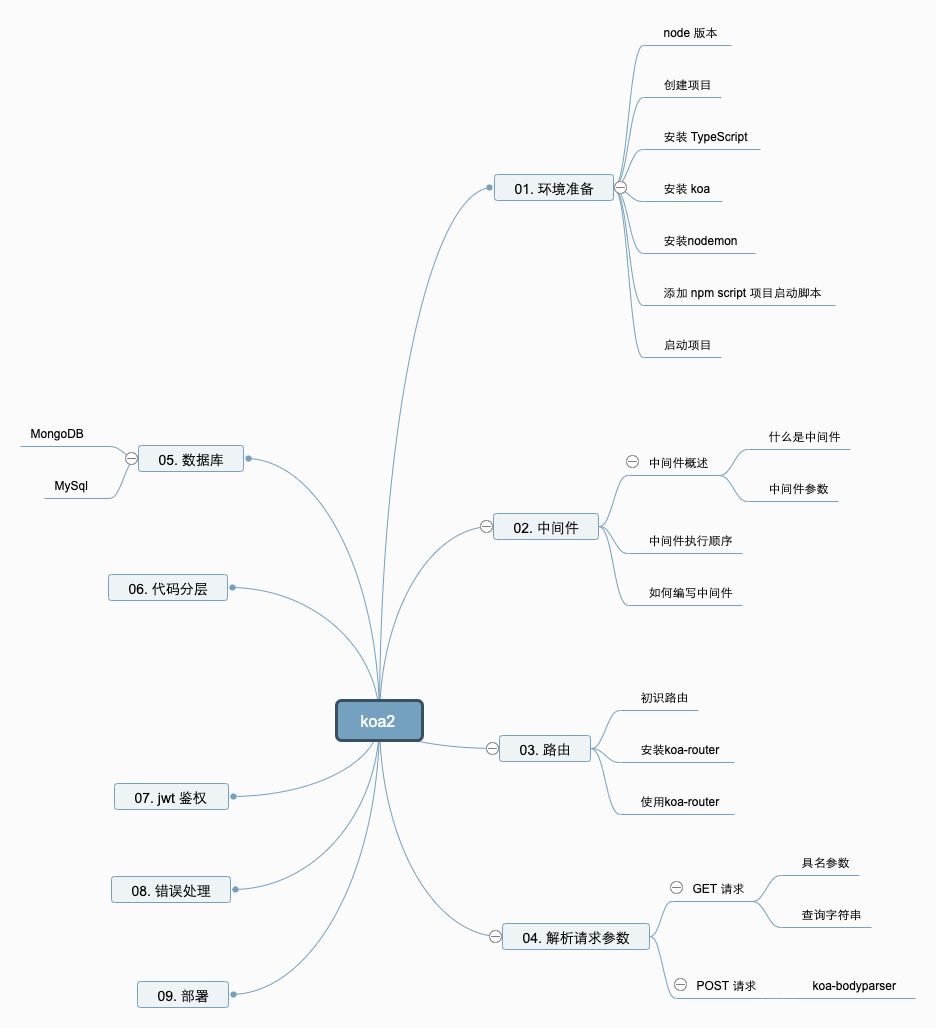
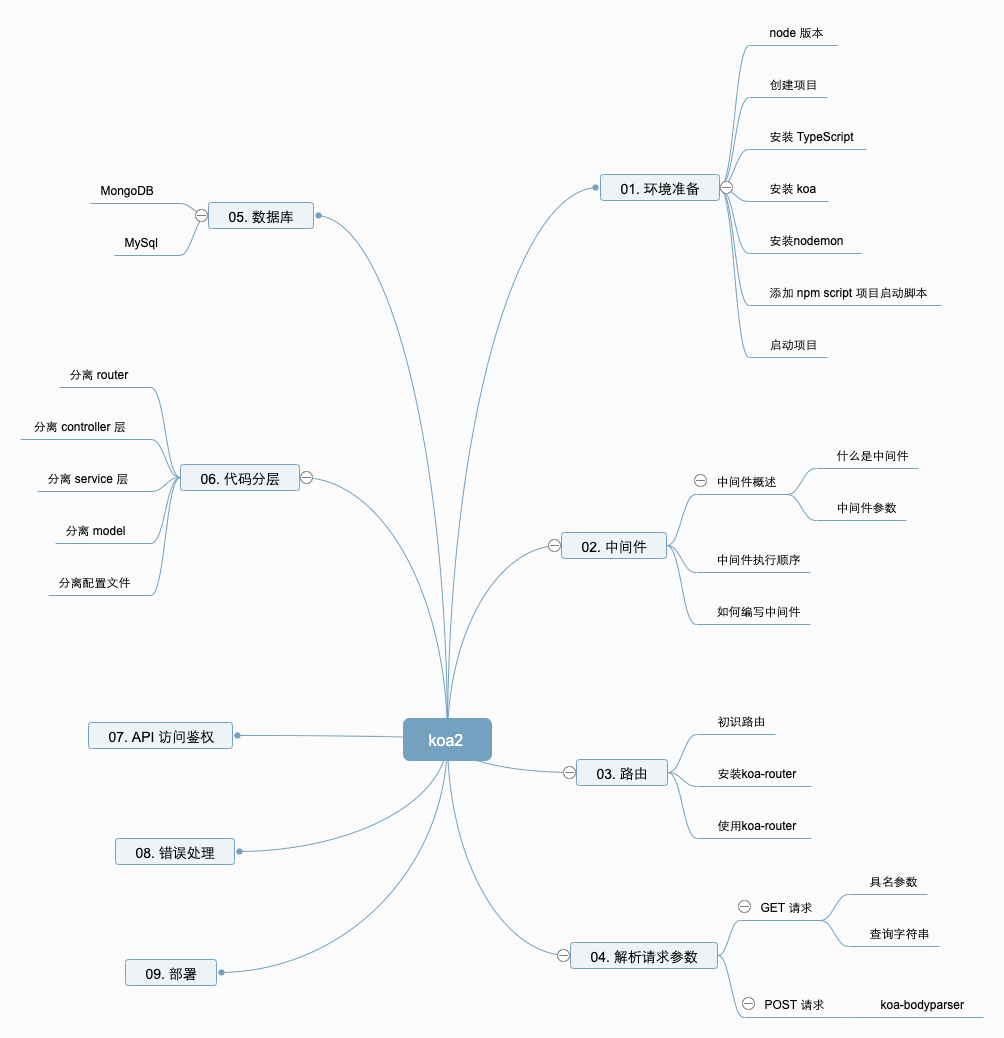
feat(koa2): 接口鉴权

diff --git a/docs/.vuepress/config.js b/docs/.vuepress/config.js
@@ -131,6 +131,7 @@ module.exports = {
           ["koa2/04.解析请求参数.md", "04.解析请求参数"],
           ["koa2/05.数据库.md", "05.数据库"],
           ["koa2/06.代码分层.md", "06.代码分层"],
+          ["koa2/07.接口鉴权.md", "07.接口鉴权"],
         ],
       },
       {

diff --git a/docs/koa2/07.接口鉴权.md b/docs/koa2/07.接口鉴权.md
@@ -1,0 +1,145 @@
+---
+title: 接口鉴权
+---
+
+## 1. 前言
+
+在一个基于 `RESTful` 规范的应用中，`URL` 对应的不同路径意味着不同的资源，所以对资源访问的限制即对 `URL` 访问的限制。常见鉴别用户权限的方式有两种，一种是广泛使用的 `Cookie-Based Authentication` ( 基于 `Cookie` 的认证模式)，另一种是 `Token-Based-Authentication` (基于 `Token` 的认证模式)。在本篇文章中我们以基于 `Token` 的认证方式为例来介绍如何对接口进行权限控制。
+
+`Token` 方式最大的优点在于采用了无状态机制，在此基础上，可以实现天然的跨域支持、前后端分离等，同时降低了服务端开发和维护的成本。`Token` 方式的缺点在于服务器每次都需要对 `Token` 进行校验，这一步骤会对服务器产生运算压力。另一方面，无状态 `API` 缺乏对用户流程或异常的控制，为了避免出现一些例如回放攻击的异常情况，应该设置较短的过期时间，且需要对密钥进行严格的保护。对于具有复杂流程的高危场景(如支付等)，则要谨慎选择 `Token` 认证模式。
+
+## 2. Token 认证流程
+
+基于 `Token` 的前后端互相认证流程通常是这样子的：
+
+1. 客户端访问 `login` 登录接口请求登录；
+2. 服务端校验客户端请求携带的参数是否合法，如果合法则以接口返回值形式向客户端颁发 `Token`；
+3. 客户端拿到 `Token` 后，在之后的请求需要在请求头中的 `Authorization` 字段中携带 `Token` ;
+4. 之后服务端在接收到请求后，会首先根据请求携带的 `Token` 进行认证，如果认证通过，则进行下一步操作，否则，拒绝访问。
+
+其交互流程图如下：
+
+![](~@/koa2/07/01.png)
+
+## 3. 结合 koa 实现 Token 认证流程
+
+在 `koa` 中，通常情况下，一般会选用 `jsonwebtoken` ( `JWT` )这个第三方工具库来实现 `Token` 的生成、校验和解码。而 `Token` 的中间件实现会选择 `koa-jwt`。`koa-jwt` 会在中间件流程中通过 `JWT` 完成对 `Token` 的校验和解码，开发者只需通过 `JWT` 来实现 `Token` 的生成即可。
+
+老规矩，使用之前我们先来安装一下这两个库，如下：
+
+```bash
+# 安装 jsonwebtoken koa-jwt
+npm i jsonwebtoken koa-jwt
+
+# 安装 jsonwebtoken 的类型文件
+npm i @types/jsonwebtoken -D
+```
+
+安装完成之后，我们就可以来使用了。
+
+首先，我们需要使用 `koa-jwt` 来生成一个 `Token` 校验中间件，为了方便复用，我们在根目录下创建 `middleware` 文件夹，并在该文件夹下创建 `jwt.ts` 文件，写入如下代码：
+
+```typescript
+import * as JWT from "koa-jwt";
+import { JWT_SCERET } from "../config";
+
+export default JWT({ secret: JWT_SCERET });
+```
+
+从上面代码中可以看到，我们先在 `src/config/index.ts` 文件中定义了 `JWT_SCERET` 变量，用来保存 `jwt` 的密码。然后调用 `koa-jwt` 中的 `JWT` 方法来生成 `JWT` 中间件。
+
+接下来，我们创建一条登录路由，在 `src/router` 目录下创建 `login.ts` 文件，并写入如下内容：
+
+```typescript
+import * as Koa from "koa";
+import * as Router from "koa-router";
+import LoginController from "../controller/login";
+
+const router = new Router();
+
+export default (app: Koa) => {
+  router.post("/login", LoginController.login);
+
+  app.use(router.routes()).use(router.allowedMethods());
+};
+```
+
+接着，我们继续实现 `LoginController.login` ，在 `src/controller` 目录下创建 `login.ts` 文件，并写入如下内容：
+
+```typescript
+import * as Koa from "koa";
+import { sign } from "jsonwebtoken";
+import { JWT_SCERET } from "../config";
+import UserService from "../service/user";
+
+export default {
+  login: async (ctx: Koa.Context, next: () => Promise<any>) => {
+    const { name } = ctx.request.body;
+    // 校验登录是否合法
+    const res = await UserService.findUserByName(name);
+    if (res.data) {
+      // 如果合法，则生成token 并颁发 token
+      const token = sign({ name }, JWT_SCERET, {
+        expiresIn: "300s", // token 过期时间为 5 分钟
+      });
+      ctx.body = {
+        msg: "登录成功",
+        token,
+      };
+    } else {
+      ctx.body = {
+        msg: "登录失败，用户名不正确",
+      };
+    }
+  },
+};
+```
+
+从上面代码中可以看到，当客户端登录请求过来后，首先判断请求所携带的参数是否合法（一般会校验登录的用户名和密码是否正确，此处为了简便起见，只校验该用户是否存在于数据库中），如果合法，则根据用户信息生成 `Token` 并通过返回值颁发给客户端；如果不合法，则返回登录失败信息。
+
+ok，接下来启动服务器，我们就可以尝试发送登录请求来获取 `Token` 了，打开 `postman` ，如下：
+
+![](~@/koa2/07/02.png)
+
+![](~@/koa2/07/03.png)
+
+可以看到，当携带正确的用户名 `nlrx` 进行登录时， `Token` 已经被正确返回了。如果用户名错误，则提示登录失败。
+
+接下来，我们给需要进行权限控制的接口添加上前面生成好的 `Token` 校验中间件，以 `/user` 为例，如下：
+
+```typescript
+// src/router/user.ts
+
+import * as Koa from "koa";
+import * as Router from "koa-router";
+import UserController from "../controller/user";
+import jwt from "../middleware/jwt";
+
+const router = new Router();
+
+export default (app: Koa) => {
+  router.post("/user", jwt, UserController.createUser);
+
+  router.put("/user", jwt, UserController.updateUser);
+
+  router.del("/user", jwt, UserController.deleteUser);
+
+  router.get("/user/:name", jwt, UserController.getUser);
+
+  app.use(router.routes()).use(router.allowedMethods());
+};
+```
+
+加上之后，我们保存文件再次重启服务器，此时如果再向之前那样直接访问接口的话，此时接口应该会访问不通，如下：
+
+![](~@/koa2/07/04.png)
+
+可以看到，返回了 `Authentication Error` 即「授权失败」。
+
+那么，我们携带上 `Token` 访问，再看看：
+
+![](~@/koa2/07/05.png)
+
+可以看到，当我们在请求的 `Headers` 中添加上 `Authorization` 字段，并把字段值设置为 `Bearer <Token>` 后，即可返回正确的结果。当没有 `Token` 或 `Token` 过期时，都会提示授权失败。
+
+以上，我们就实现了给接口添加访问权限控制的功能。

diff --git a/docs/koa2/06.代码分层.md b/docs/koa2/06.代码分层.md
@@ -1,3 +1,7 @@
+---
+title: 代码分层
+---
+
 ## 1. 前言
 
 在前面几个章节中，我们已经实现了项目中的几个常见操作：环境搭建、启动服务器、路由中间件、请求参数解析、数据库操作等。但是，到目前为止整个示例中所有的代码都写在 `app.ts` 中。然而在业务代码持续增大，场景更加复杂的情况下，这种做法无论是对后期维护还是对患有强迫症的同学来说都不是好事。所以我们现在要做的就是：『代码分层』。根据代码职责功能进行划分，将不同职责功能的代码分开存放。
@@ -21,19 +25,18 @@ export default (app: Koa) => {
   });
 
   router.del("/user", async (ctx: Koa.Context, next: () => Promise<any>) => {
-    // 
+    //
   });
 
   router.get(
     "/user/:name",
     async (ctx: Koa.Context, next: () => Promise<any>) => {
-      // ... 
+      // ...
     }
   );
 
   app.use(router.routes()).use(router.allowedMethods());
 };
-
 ```
 
 然后在 `app.ts` 文件中引入路由，如下：
@@ -196,7 +199,6 @@ export default {
     ctx.body = res;
   },
 };
-
 ```
 
 然后在 `router/user.ts` 文件中引入该 `controller`，如下：
@@ -291,7 +293,6 @@ export default {
     return res;
   },
 };
-
 ```
 
 然后在 `controller/user.ts` 文件中引入该 `service`，如下：
@@ -372,7 +373,6 @@ const sequelize = new Sequelize(databaseName, userName, password, {
 });
 
 export default sequelize;
-
 ```
 
 ## 7. 代码分离完毕
@@ -395,4 +395,3 @@ src
 └── service
     └── user.ts
 ```
-
